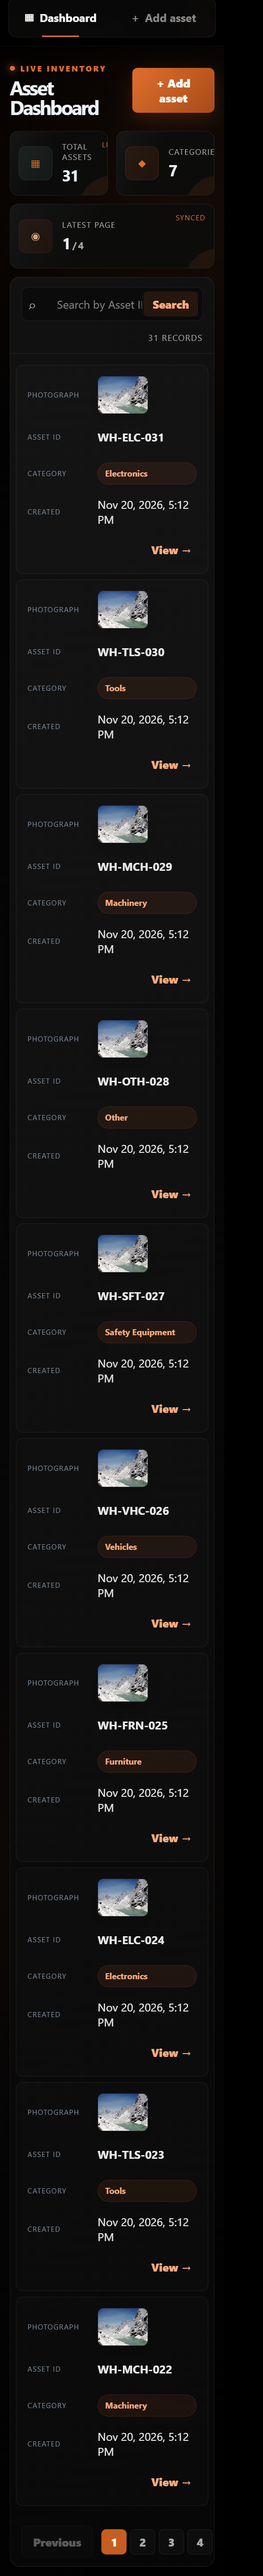
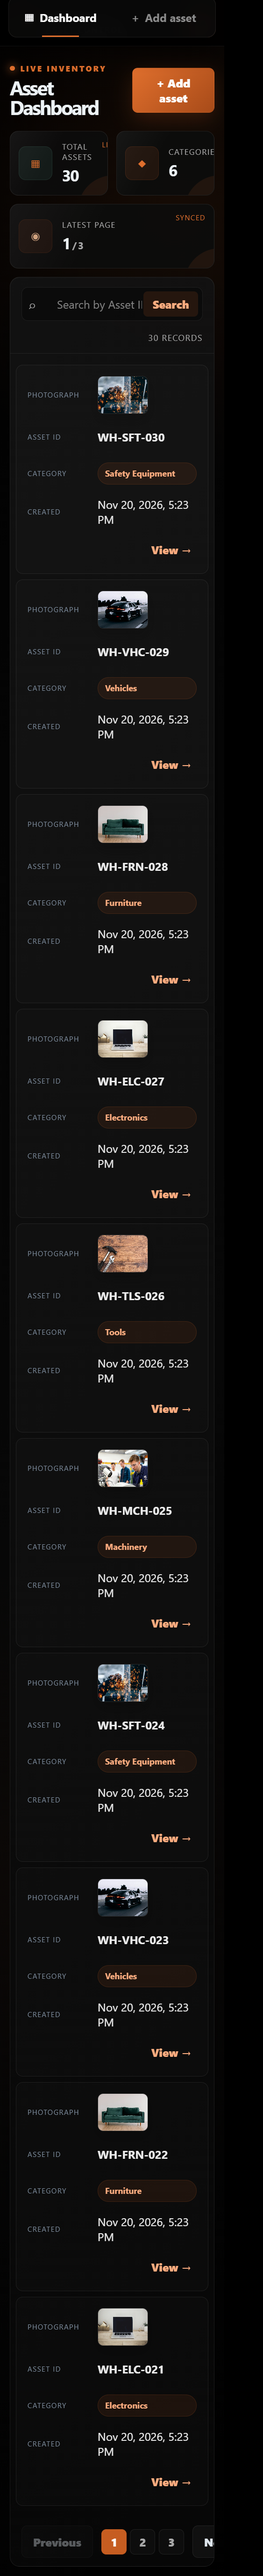
Match unique photographs to asset categories

diff --git a/frontend/src/main.jsx b/frontend/src/main.jsx
@@ -10,7 +10,6 @@ const CATEGORIES = [
   "Furniture",
   "Vehicles",
   "Safety Equipment",
-  "Other",
 ];
 
 function Icon({ name }) {

diff --git a/backend/seed.py b/backend/seed.py
@@ -1,11 +1,11 @@
 from pathlib import Path
-import shutil
+from PIL import Image, ImageEnhance
 from app import create_app
 
 
 app = create_app()
 
-photo_dir = Path(__file__).resolve().parent / "seed_assets_unique"
+photo_dir = Path(__file__).resolve().parent / "seed_assets"
 
 samples = []
 category_names = [
@@ -15,9 +15,16 @@ category_names = [
     "Furniture",
     "Vehicles",
     "Safety Equipment",
-    "Other",
 ]
-for index in range(1, 32):
+category_photos = {
+    "Machinery": "machinery.jpg",
+    "Tools": "tools.jpg",
+    "Electronics": "electronics.jpg",
+    "Furniture": "furniture.jpg",
+    "Vehicles": "vehicles.jpg",
+    "Safety Equipment": "safety.jpg",
+}
+for index in range(1, 31):
     category = category_names[(index - 1) % len(category_names)]
     prefix = {
         "Machinery": "MCH",
@@ -26,7 +33,6 @@ for index in range(1, 32):
         "Furniture": "FRN",
         "Vehicles": "VHC",
         "Safety Equipment": "SFT",
-        "Other": "OTH",
     }[category]
     samples.append((f"WH-{prefix}-{index:03d}", category))
 
@@ -35,13 +41,30 @@ with app.app_context():
     upload_folder = Path(app.config["UPLOAD_FOLDER"]).resolve()
     upload_folder.mkdir(parents=True, exist_ok=True)
 
+    for old_photo in upload_folder.glob("sample-*.jpg"):
+        old_photo.unlink()
+
     with database.connect() as connection:
         connection.execute("DELETE FROM assets")
 
     for identifier, category in samples:
         filename = f"sample-{identifier.lower().replace('/', '-')}.jpg"
-        source_photo = photo_dir / f"photo-{index:03d}.jpg"
-        shutil.copyfile(source_photo, upload_folder / filename)
+        source_photo = photo_dir / category_photos[category]
+        with Image.open(source_photo).convert("RGB") as base:
+            base = base.resize((960, 720))
+            crop_width = 860 + ((int(identifier[-3:]) % 5) * 12)
+            crop_height = 620 + ((int(identifier[-3:]) % 4) * 12)
+            left = max(0, (base.width - crop_width) // 2)
+            top = max(0, (base.height - crop_height) // 2)
+            unique_image = base.crop((left, top, left + crop_width, top + crop_height))
+            unique_image = unique_image.resize((960, 720), Image.Resampling.LANCZOS)
+            unique_image = ImageEnhance.Brightness(unique_image).enhance(
+                0.92 + ((int(identifier[-3:]) % 7) * 0.018)
+            )
+            unique_image = ImageEnhance.Contrast(unique_image).enhance(
+                1.02 + ((int(identifier[-3:]) % 5) * 0.025)
+            )
+            unique_image.save(upload_folder / filename, "JPEG", quality=88)
         photograph_path = f"uploads/{filename}"
 
         with database.connect() as connection:

diff --git a/backend/app/services.py b/backend/app/services.py
@@ -13,7 +13,6 @@ CATEGORIES = {
     "Furniture",
     "Vehicles",
     "Safety Equipment",
-    "Other",
 }
 ALLOWED_EXTENSIONS = {"png", "jpg", "jpeg"}
 MAX_IMAGE_BYTES = 5 * 1024 * 1024

diff --git a/README.md b/README.md
@@ -106,7 +106,7 @@ The backend listens on `0.0.0.0:5000`. The database and uploads directories are 
 python seed.py
 ```
 
-The seed script replaces demo asset records with 31 asset records across all supported categories, assigns a unique photograph to every record, copies the photographs into the uploads directory, and demonstrates pagination across four pages. Seed photographs are stored locally for predictable offline use.
+The seed script replaces demo asset records with 30 assets across the six named categories. Each asset receives a unique category-matched photograph variant, and the data demonstrates pagination across three pages. Seed photographs are stored locally for predictable offline use.
 
 ### Frontend
 
